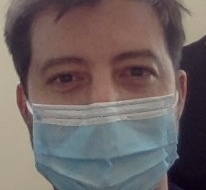
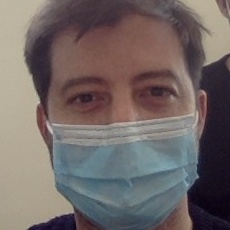
square and zoom out

diff --git a/facemask/detect_from_image.py b/facemask/detect_from_image.py
@@ -24,11 +24,23 @@ for detection in detections:
         x, y, width, height = detection['box']
         print("Face found")
 
-        # corner_top_left = (x, y)
-        # corner_bottom_right = (x + height, y + height)
-        # height = int(round(height * 1.2, 0))
-        new_x = x - int(round(((height - width) / 2), 0))
-        face = img_with_dets[y:y + height, new_x:x + height]
+        diff = 20
+        # squaring image
+        if height > width:
+            delta = int(round((height - width) / 2))
+            y_min = y - diff
+            y_max = y + height + diff
+            x_min = x - delta - diff
+            x_max = x + width + delta + diff
+        elif width > height:
+            delta = int(round((width - height) / 2))
+            y_min = y - delta - diff
+            y_max = y + height + delta + diff
+            x_min = x - diff
+            x_max = x + width + diff
+
+        face = img_with_dets[y_min:y_max, x_min:x_max]
+
         cv2.imwrite(f"tmp_{ind}.jpg", cv2.cvtColor(face, cv2.COLOR_RGB2BGR))
         ind += 1
 
@@ -63,8 +75,14 @@ for detection in detections:
             (bounding_box[0], bounding_box[1]),
               (bounding_box[0]+bounding_box[2], bounding_box[1] + bounding_box[3]),
               color,
-              2)
+              1)
         cv2.putText(image, str(round(max(y_pred[0]), 2)), (bounding_box[0], bounding_box[1] - 10),
-            cv2.FONT_HERSHEY_SIMPLEX, 0.45, color, 2)
+            cv2.FONT_HERSHEY_SIMPLEX, 0.45, color, 1)
+
+        cv2.rectangle(image,
+            (x_min, y_min),
+              (x_max, y_max),
+              (0,0,0),
+              1)
 
 cv2.imwrite("output.jpg", cv2.cvtColor(image, cv2.COLOR_RGB2BGR))
